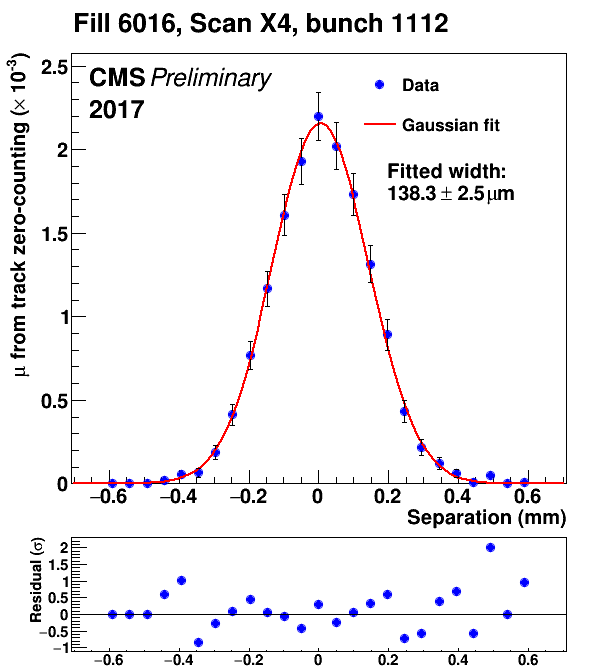
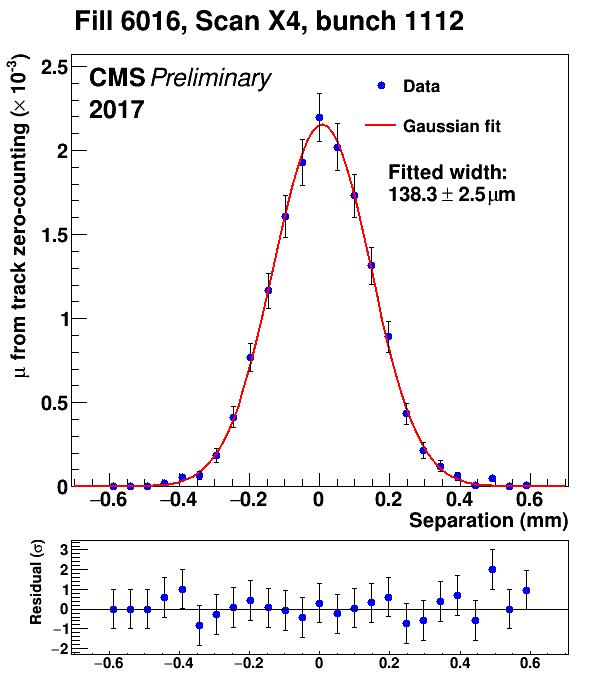
add error bars to residual plots in Fig. 31; fix top of y-axis labels getting cut off in Fig. 32

diff --git a/TrackLumi/PlotTrackLumiVdMPaper.C b/TrackLumi/PlotTrackLumiVdMPaper.C
@@ -73,7 +73,7 @@ std::tuple<float, float, float, float> PlotTrackLumiVdMPaper(const char *scanFil
   gStyle->SetTitleBorderSize(0);
   gStyle->SetTitleX(0.1);
   gStyle->SetTitleY(1.0);
-  gStyle->SetTitleH(0.09);
+  gStyle->SetTitleH(0.085);
   gStyle->SetTitleW(0.7);
   gStyle->SetCanvasBorderMode(0);
   gStyle->SetLegendBorderSize(0);
@@ -191,7 +191,7 @@ std::tuple<float, float, float, float> PlotTrackLumiVdMPaper(const char *scanFil
 
   // Plot and fit the results.
 
-  TGraph *g1 = new TGraphErrors(sepVal.size(), sepVal.data(), trackLumiVal.data(), sepErr.data(), trackLumiErr.data());
+  TGraphErrors *g1 = new TGraphErrors(sepVal.size(), sepVal.data(), trackLumiVal.data(), sepErr.data(), trackLumiErr.data());
 
   TCanvas *c1 = new TCanvas("c1", "c1", 600, 700);
 
@@ -260,6 +260,7 @@ std::tuple<float, float, float, float> PlotTrackLumiVdMPaper(const char *scanFil
 
   // Make residual plot.
   std::vector<double> residualVal;
+  std::vector<double> residualErr;
   for (int i=0; i<sepVal.size(); ++i) {
     float x = sepVal[i];
     // Ideally we should account for the uncertainty in the fit function also but this should be good enough for our purposes.
@@ -267,9 +268,10 @@ std::tuple<float, float, float, float> PlotTrackLumiVdMPaper(const char *scanFil
     if (trackLumiErr[i] != 0)
       resid = (trackLumiVal[i] - f1->Eval(x))/trackLumiErr[i];
     residualVal.push_back(resid);
+    residualErr.push_back(1.0);
   }
   p2->cd();
-  TGraph *g2 = new TGraph(sepVal.size(), sepVal.data(), residualVal.data());
+  TGraphErrors *g2 = new TGraphErrors(sepVal.size(), sepVal.data(), residualVal.data(), sepErr.data(), residualErr.data());
   g2->Draw("AP");
   g2->SetTitle("");
   g2->GetYaxis()->SetTitle("Residual (#sigma)");
